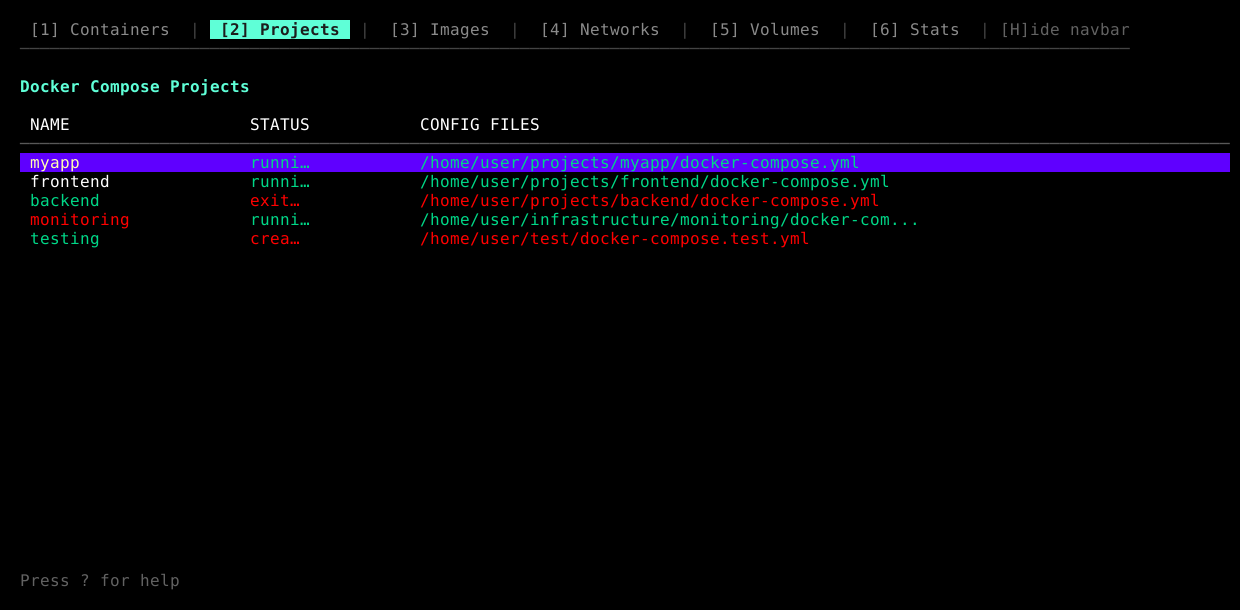
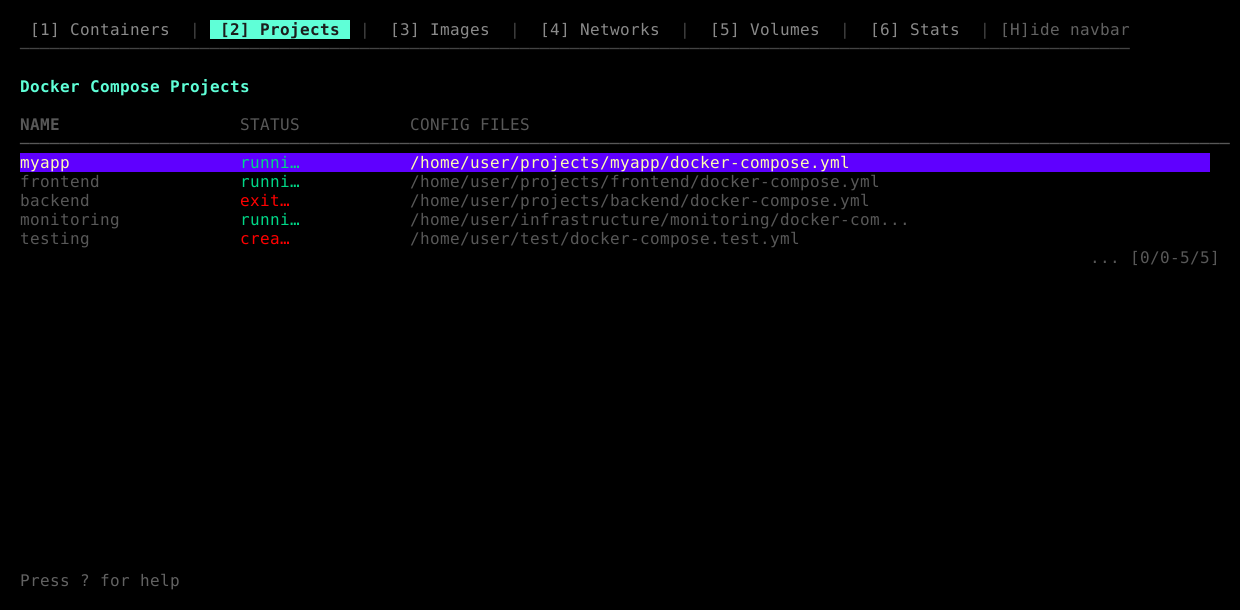
feat: use TableViewModel in Compose Project List view
Refactored ComposeProjectListViewModel to use the new TableViewModel
implementation, matching the pattern already applied to image list and
docker container list views. This provides better table rendering performance
and consistency across all list views.

Changes:
- Embedded TableViewModel in ComposeProjectListViewModel
- Removed manual selectedProject state management
- Updated Loaded method to use SetRows for proper table initialization
- Extracted row building logic to separate buildRows method
- Updated navigation handlers to use TableViewModel's built-in methods
- Fixed all related tests to work with new structure
- Updated screenshot helper to initialize table rows

🤖 Generated with [Claude Code](https://claude.ai/code)

diff --git a/internal/ui/view_compose_project_list_test.go b/internal/ui/view_compose_project_list_test.go
@@ -18,8 +18,10 @@ func TestComposeProjectListViewModel_Rendering(t *testing.T) {
 		{
 			name: "displays no projects message when empty",
 			viewModel: ComposeProjectListViewModel{
-				projects:        []models.ComposeProject{},
-				selectedProject: 0,
+				TableViewModel: TableViewModel{
+					Cursor: 0,
+				},
+				projects: []models.ComposeProject{},
 			},
 			height:   20,
 			expected: []string{"No Docker Compose projects found"},
@@ -39,7 +41,9 @@ func TestComposeProjectListViewModel_Rendering(t *testing.T) {
 						ConfigFiles: "/home/user/database/docker-compose.yml",
 					},
 				},
-				selectedProject: 0,
+				TableViewModel: TableViewModel{
+					Cursor: 0,
+				},
 			},
 			height: 20,
 			expected: []string{
@@ -65,7 +69,9 @@ func TestComposeProjectListViewModel_Rendering(t *testing.T) {
 						Status: "exited",
 					},
 				},
-				selectedProject: 0,
+				TableViewModel: TableViewModel{
+					Cursor: 0,
+				},
 			},
 			height:   20,
 			expected: []string{"running-project", "exited-project"},
@@ -80,7 +86,9 @@ func TestComposeProjectListViewModel_Rendering(t *testing.T) {
 						ConfigFiles: "/very/long/path/that/should/be/truncated/in/the/display/docker-compose.yml",
 					},
 				},
-				selectedProject: 0,
+				TableViewModel: TableViewModel{
+					Cursor: 0,
+				},
 			},
 			height:   20,
 			expected: []string{"/very/long/path/that/should/be/truncated/in/the..."},
@@ -95,6 +103,9 @@ func TestComposeProjectListViewModel_Rendering(t *testing.T) {
 				Height:                      tt.height,
 			}
 
+			// Initialize table rows
+			tt.viewModel.SetRows(tt.viewModel.buildRows(), model.ViewHeight())
+
 			result := tt.viewModel.render(model, tt.height-4)
 
 			for _, expected := range tt.expected {
@@ -106,47 +117,53 @@ func TestComposeProjectListViewModel_Rendering(t *testing.T) {
 
 func TestComposeProjectListViewModel_Navigation(t *testing.T) {
 	t.Run("HandleDown moves selection down", func(t *testing.T) {
-		model := &Model{}
+		model := &Model{Height: 20}
 		vm := &ComposeProjectListViewModel{
 			projects: []models.ComposeProject{
 				{Name: "project1"},
 				{Name: "project2"},
 				{Name: "project3"},
 			},
-			selectedProject: 0,
+			TableViewModel: TableViewModel{
+				Cursor: 0,
+			},
 		}
+		vm.SetRows(vm.buildRows(), model.ViewHeight())
 
 		cmd := vm.HandleDown(model)
 		assert.Nil(t, cmd)
-		assert.Equal(t, 1, vm.selectedProject)
+		assert.Equal(t, 1, vm.Cursor)
 
 		// Test boundary
-		vm.selectedProject = 2
+		vm.Cursor = 2
 		cmd = vm.HandleDown(model)
 		assert.Nil(t, cmd)
-		assert.Equal(t, 2, vm.selectedProject, "Should not go beyond last project")
+		assert.Equal(t, 2, vm.Cursor, "Should not go beyond last project")
 	})
 
 	t.Run("HandleUp moves selection up", func(t *testing.T) {
-		model := &Model{}
+		model := &Model{Height: 20}
 		vm := &ComposeProjectListViewModel{
 			projects: []models.ComposeProject{
 				{Name: "project1"},
 				{Name: "project2"},
 				{Name: "project3"},
 			},
-			selectedProject: 2,
+			TableViewModel: TableViewModel{
+				Cursor: 2,
+			},
 		}
+		vm.SetRows(vm.buildRows(), model.ViewHeight())
 
 		cmd := vm.HandleUp(model)
 		assert.Nil(t, cmd)
-		assert.Equal(t, 1, vm.selectedProject)
+		assert.Equal(t, 1, vm.Cursor)
 
 		// Test boundary
-		vm.selectedProject = 0
+		vm.Cursor = 0
 		cmd = vm.HandleUp(model)
 		assert.Nil(t, cmd)
-		assert.Equal(t, 0, vm.selectedProject, "Should not go below 0")
+		assert.Equal(t, 0, vm.Cursor, "Should not go below 0")
 	})
 }
 
@@ -160,7 +177,9 @@ func TestComposeProjectListViewModel_Operations(t *testing.T) {
 			projects: []models.ComposeProject{
 				{Name: "my-project"},
 			},
-			selectedProject: 0,
+			TableViewModel: TableViewModel{
+				Cursor: 0,
+			},
 		}
 		model.composeProjectListViewModel = *vm
 
@@ -176,8 +195,10 @@ func TestComposeProjectListViewModel_Operations(t *testing.T) {
 		}
 		model.composeProcessListViewModel.projectName = "old-project"
 		vm := &ComposeProjectListViewModel{
-			projects:        []models.ComposeProject{},
-			selectedProject: 0,
+			projects: []models.ComposeProject{},
+			TableViewModel: TableViewModel{
+				Cursor: 0,
+			},
 		}
 
 		cmd := vm.HandleSelectProject(model)
@@ -193,7 +214,9 @@ func TestComposeProjectListViewModel_Operations(t *testing.T) {
 			projects: []models.ComposeProject{
 				{Name: "project1"},
 			},
-			selectedProject: 5, // Out of bounds
+			TableViewModel: TableViewModel{
+				Cursor: 5,
+			}, // Out of bounds
 		}
 
 		cmd := vm.HandleSelectProject(model)
@@ -205,7 +228,9 @@ func TestComposeProjectListViewModel_Operations(t *testing.T) {
 func TestComposeProjectListViewModel_Messages(t *testing.T) {
 	t.Run("Loaded updates project list", func(t *testing.T) {
 		vm := &ComposeProjectListViewModel{
-			selectedProject: 5, // Out of bounds
+			TableViewModel: TableViewModel{
+				Cursor: 5, // Out of bounds
+			},
 		}
 
 		projects := []models.ComposeProject{
@@ -213,15 +238,18 @@ func TestComposeProjectListViewModel_Messages(t *testing.T) {
 			{Name: "project2"},
 		}
 
-		vm.Loaded(projects)
+		model := &Model{Height: 20}
+		vm.Loaded(model, projects)
 
 		assert.Equal(t, projects, vm.projects)
-		assert.Equal(t, 0, vm.selectedProject, "Should reset selection when out of bounds")
+		assert.Equal(t, 0, vm.Cursor, "Should reset selection when out of bounds")
 	})
 
 	t.Run("Loaded keeps selection in bounds", func(t *testing.T) {
 		vm := &ComposeProjectListViewModel{
-			selectedProject: 1,
+			TableViewModel: TableViewModel{
+				Cursor: 1,
+			},
 		}
 
 		projects := []models.ComposeProject{
@@ -230,9 +258,10 @@ func TestComposeProjectListViewModel_Messages(t *testing.T) {
 			{Name: "project3"},
 		}
 
-		vm.Loaded(projects)
+		model := &Model{Height: 20}
+		vm.Loaded(model, projects)
 
-		assert.Equal(t, 1, vm.selectedProject, "Should keep selection when in bounds")
+		assert.Equal(t, 1, vm.Cursor, "Should keep selection when in bounds")
 	})
 }
 
@@ -240,8 +269,10 @@ func TestComposeProjectListViewModel_EmptySelection(t *testing.T) {
 	t.Run("operations handle empty project list gracefully", func(t *testing.T) {
 		model := &Model{}
 		vm := &ComposeProjectListViewModel{
-			projects:        []models.ComposeProject{},
-			selectedProject: 0,
+			projects: []models.ComposeProject{},
+			TableViewModel: TableViewModel{
+				Cursor: 0,
+			},
 		}
 
 		// Test operations that depend on selection

diff --git a/internal/ui/view_compose_project_list.go b/internal/ui/view_compose_project_list.go
@@ -6,6 +6,7 @@ import (
 
 	"github.com/charmbracelet/bubbles/table"
 	tea "github.com/charmbracelet/bubbletea"
+	"github.com/charmbracelet/lipgloss"
 
 	"github.com/tokuhirom/dcv/internal/models"
 )
@@ -17,9 +18,9 @@ type projectsLoadedMsg struct {
 }
 
 type ComposeProjectListViewModel struct {
+	TableViewModel
 	// Compose list state
-	projects        []models.ComposeProject
-	selectedProject int
+	projects []models.ComposeProject
 }
 
 // Update handles messages for the compose project list view
@@ -33,29 +34,14 @@ func (m *ComposeProjectListViewModel) Update(model *Model, msg tea.Msg) (tea.Mod
 		} else {
 			model.err = nil
 		}
-		m.Loaded(msg.projects)
+		m.Loaded(model, msg.projects)
 		return model, nil
 	default:
 		return model, nil
 	}
 }
 
-func (m *ComposeProjectListViewModel) render(model *Model, availableHeight int) string {
-	if len(m.projects) == 0 {
-		var s strings.Builder
-		s.WriteString("\nNo Docker Compose projects found.\n")
-		s.WriteString("\nPress q to quit\n")
-		return s.String()
-	}
-
-	// Project list
-
-	columns := []table.Column{
-		{Title: "NAME", Width: 20},
-		{Title: "STATUS", Width: 15},
-		{Title: "CONFIG FILES", Width: model.width - 40},
-	}
-
+func (m *ComposeProjectListViewModel) buildRows() []table.Row {
 	rows := make([]table.Row, 0, len(m.projects))
 	for _, project := range m.projects {
 		// Status with color
@@ -78,37 +64,76 @@ func (m *ComposeProjectListViewModel) render(model *Model, availableHeight int) 
 
 		rows = append(rows, table.Row{project.Name, status, configFiles})
 	}
-
-	return RenderTable(columns, rows, availableHeight, m.selectedProject)
+	return rows
 }
 
-func (m *ComposeProjectListViewModel) HandleUp(_ *Model) tea.Cmd {
-	if m.selectedProject > 0 {
-		m.selectedProject--
+func (m *ComposeProjectListViewModel) render(model *Model, availableHeight int) string {
+	if len(m.projects) == 0 {
+		var s strings.Builder
+		s.WriteString("\nNo Docker Compose projects found.\n")
+		s.WriteString("\nPress q to quit\n")
+		return s.String()
+	}
+
+	// Project list
+	columns := []table.Column{
+		{Title: "NAME", Width: 20},
+		{Title: "STATUS", Width: 15},
+		{Title: "CONFIG FILES", Width: model.width - 40},
+	}
+
+	return m.RenderTable(model, columns, availableHeight, func(row, col int) lipgloss.Style {
+		if row == m.Cursor {
+			return tableSelectedCellStyle
+		}
+		return tableNormalCellStyle
+	})
+}
+
+func (m *ComposeProjectListViewModel) HandleUp(model *Model) tea.Cmd {
+	height := model.ViewHeight()
+	if height <= 0 {
+		height = 10 // fallback
+	}
+	if m.Cursor > 0 {
+		m.Cursor--
+		if m.Cursor < m.Start {
+			m.Start = m.Cursor
+		}
+		m.End = clamp(m.Start+height, 0, len(m.Rows))
 	}
 	return nil
 }
 
-func (m *ComposeProjectListViewModel) HandleDown(_ *Model) tea.Cmd {
-	if m.selectedProject < len(m.projects)-1 {
-		m.selectedProject++
+func (m *ComposeProjectListViewModel) HandleDown(model *Model) tea.Cmd {
+	height := model.ViewHeight()
+	if height <= 0 {
+		height = 10 // fallback
+	}
+	if m.Cursor < len(m.Rows)-1 {
+		m.Cursor++
+		if m.Cursor >= m.End {
+			m.Start = m.Cursor - height + 1
+			if m.Start < 0 {
+				m.Start = 0
+			}
+		}
+		m.End = clamp(m.Start+height, 0, len(m.Rows))
 	}
 	return nil
 }
 
 func (m *ComposeProjectListViewModel) HandleSelectProject(model *Model) tea.Cmd {
-	if m.selectedProject < len(m.projects) {
-		project := m.projects[m.selectedProject]
+	if m.Cursor < len(m.projects) {
+		project := m.projects[m.Cursor]
 		return model.composeProcessListViewModel.Load(model, project)
 	}
 	return nil
 }
 
-func (m *ComposeProjectListViewModel) Loaded(projects []models.ComposeProject) {
+func (m *ComposeProjectListViewModel) Loaded(model *Model, projects []models.ComposeProject) {
 	m.projects = projects
-	if len(m.projects) > 0 && m.selectedProject >= len(m.projects) {
-		m.selectedProject = 0
-	}
+	m.SetRows(m.buildRows(), model.ViewHeight())
 }
 
 func (m *ComposeProjectListViewModel) DoLoad(model *Model) tea.Cmd {

diff --git a/internal/ui/keyhandler_views.go b/internal/ui/keyhandler_views.go
@@ -69,8 +69,8 @@ func (m *Model) CmdSelectAction(_ tea.KeyMsg) (tea.Model, tea.Cmd) {
 func (m *Model) CmdShowComposeProjectActions(_ tea.KeyMsg) (tea.Model, tea.Cmd) {
 	switch m.currentView {
 	case ComposeProjectListView:
-		if m.composeProjectListViewModel.selectedProject < len(m.composeProjectListViewModel.projects) {
-			project := m.composeProjectListViewModel.projects[m.composeProjectListViewModel.selectedProject]
+		if m.composeProjectListViewModel.Cursor < len(m.composeProjectListViewModel.projects) {
+			project := m.composeProjectListViewModel.projects[m.composeProjectListViewModel.Cursor]
 			m.composeProjectActionViewModel.Initialize(&project)
 			m.SwitchView(ComposeProjectActionView)
 			return m, nil

diff --git a/internal/ui/keyhandler_compose_operations.go b/internal/ui/keyhandler_compose_operations.go
@@ -11,8 +11,8 @@ import (
 // Helper function to get the selected compose project
 func (m *Model) getSelectedComposeProject() *models.ComposeProject {
 	if m.currentView == ComposeProjectListView {
-		if m.composeProjectListViewModel.selectedProject < len(m.composeProjectListViewModel.projects) {
-			return &m.composeProjectListViewModel.projects[m.composeProjectListViewModel.selectedProject]
+		if m.composeProjectListViewModel.Cursor < len(m.composeProjectListViewModel.projects) {
+			return &m.composeProjectListViewModel.projects[m.composeProjectListViewModel.Cursor]
 		}
 	}
 	return nil

diff --git a/internal/ui/screenshot_helpers.go b/internal/ui/screenshot_helpers.go
@@ -79,6 +79,12 @@ func (m *Model) GetComposeProjectListViewModel() *ComposeProjectListViewModel {
 
 func (vm *ComposeProjectListViewModel) SetProjects(projects []models.ComposeProject) {
 	vm.projects = projects
+	// Build rows for table rendering
+	vm.Rows = vm.buildRows()
+	// Set End to show all rows initially
+	if len(vm.Rows) > 0 {
+		vm.End = len(vm.Rows)
+	}
 }
 
 func (m *Model) GetLogViewModel() *LogViewModel {
